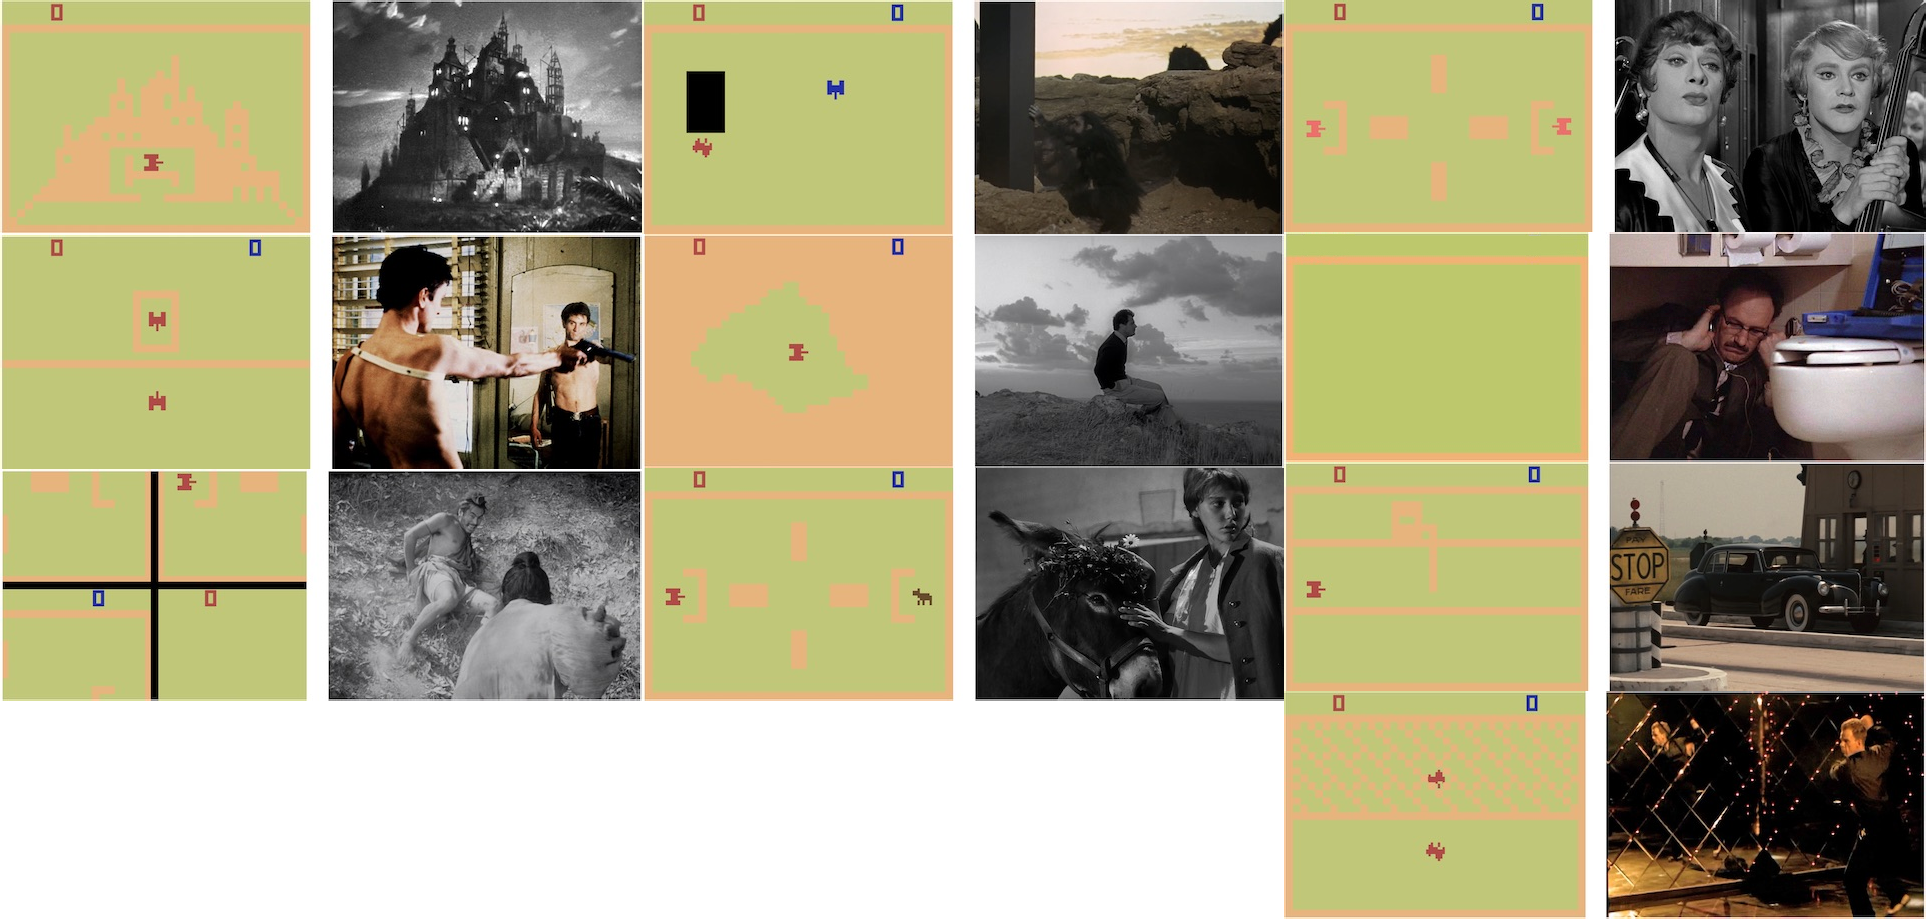
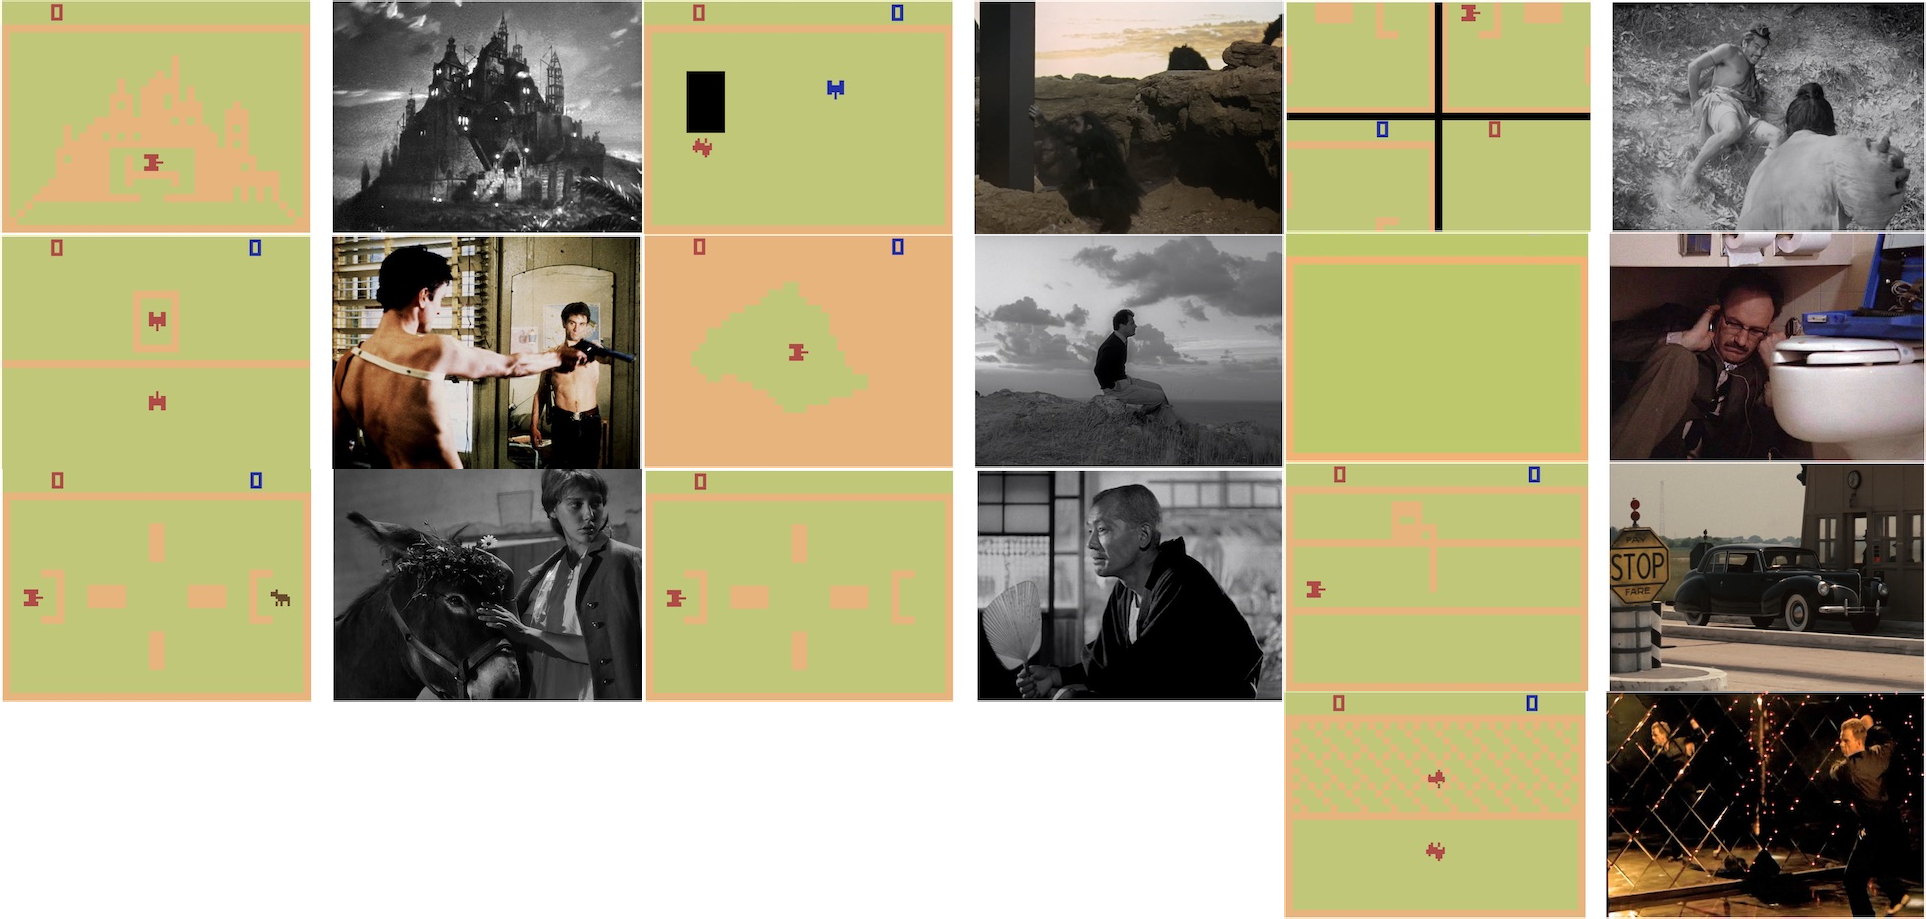
Tokyo Story: added figure to instructions (and changed how figure labels work)
? That is, I now generate the figure labels rather than hard coding them 
because it was stupid to hard code them.

Changed region(s): [[0.0, 0.4875, 0.6854, 0.7617], [0.6542, 0.0, 1.0, 0.2742]]

diff --git a/js/Rashomon.js b/js/Rashomon.js
@@ -67,7 +67,7 @@ class Rashomon extends GameScene {
     this.title = "RASHOMON";
     this.explanation = "Finally, Akira Kurosawa's complex tale of unreliable, self-serving narrators is available in videogame form. Fight in the famous duel between Tajōmaru (Toshiro Mifune) and the samurai (Masayuki Mori). Hold the Up Arrow to move forwards, the Left and Right Arrows to turn, and press the Space Bar to shoot. But beware, all is not as it seems: this game mode includes four separate views, each showing the game field from a different perspective. What is the truth, and what is a lie?";
     this.figureKey = 'fig-rashomon';
-    this.caption = 'Fig. B – The duel?'
+    this.caption = 'The duel?'
     this.showInstructions(() => {
       this.startGame();
     });

diff --git a/js/TaxiDriver.js b/js/TaxiDriver.js
@@ -40,7 +40,7 @@ class TaxiDriver extends GameScene {
     this.title = "TAXI DRIVER";
     this.explanation = "You are Travis Bickle (Robert De Niro), alone again in your depressing apartment as you ready yourself for the ultimate confrontation. Point your canon at yourself in the mirror and practice your tough-guy routine. Feel the aching need to shoot just to show you're alive. Hold the Up Arrow to move forwards, the Left and Right Arrows to turn, and press the Space Bar to deliver your line.";
     this.figureKey = 'fig-taxi-driver';
-    this.caption = 'Fig. I – Looking into the mirror'
+    this.caption = 'Looking into the mirror'
 
     this.showInstructions(() => {
       this.startGame();

diff --git a/js/GameScene.js b/js/GameScene.js
@@ -265,11 +265,12 @@ class GameScene extends Phaser.Scene {
   }
 
   displayFigure() {
+
     this.figure = this.add.sprite(this.game.canvas.width / 2, 0, 'atlas', `figures/${this.figureKey}.jpg`)
       .setOrigin(0.5, 0)
       .setScale(0.6);
     this.figure.y = this.explanationText.y + this.explanationText.height + 20;
-    this.captionText = this.add.text(this.pageInset + this.pageMargin, this.figure.y + this.figure.height * 0.6 + 10, this.caption, this.standardBoldStyle);
+    this.captionText = this.add.text(this.pageInset + this.pageMargin, this.figure.y + this.figure.height * 0.6 + 10, `Fig. ${this.figureLabel} – ${this.caption}`, this.standardBoldStyle);
   }
 
   shutdown() {

diff --git a/js/Lavventura.js b/js/Lavventura.js
@@ -17,7 +17,7 @@ class Lavventura extends GameScene {
     this.title = "L'AVVENTURA";
     this.explanation = "Anna (Lea Massari) has gone missing on the island of Lisca Bianca. Take on the role of Sandro (Gabriele Ferzetti) as you search for her fruitlessly on the rocky isle. Hold the Up Arrow to move forwards and the Left and Right Arrows to turn. Scour the area, but she's nowhere to be seen! Betrayal of Anna with Claudia not included.";
     this.figureKey = 'fig-lavventura';
-    this.caption = 'Fig. D – Searching for Anna on Lisca Bianca'
+    this.caption = 'Searching for Anna on Lisca Bianca'
     this.showInstructions(() => {
       this.startGame();
     });

diff --git a/js/TheGodfather.js b/js/TheGodfather.js
@@ -30,7 +30,7 @@ class TheGodfather extends GameScene {
     this.title = "THE GODFATHER";
     this.explanation = "Those Barzinis are up to no good. Play as Sonny Corleone (James Caan) driving through the toll plaza and minding your own business. Experience the shock and horror of a surprise attack from a Barzini tank that wants you dead. Hold the Up Arrow to move forwards, the Left and Right Arrows to turn. Drive through the plaza to your assassination.";
     this.figureKey = 'fig-the-godfather';
-    this.caption = 'Fig. G – Beware the toll plaza'
+    this.caption = 'Beware the toll plaza'
     this.showInstructions(() => {
       this.startGame();
     });

diff --git a/js/AuHasardBalthazar.js b/js/AuHasardBalthazar.js
@@ -28,7 +28,7 @@ class AuHasardBalthazar extends GameScene {
     this.title = "AU HASARD BALTHAZAR";
     this.explanation = "Play your part in the circuitous and everyday life of a donkey called Balthazar. Watch as he wanders around the field of play, guileless and innocent. Hold the Up Arrow to move forwards, the Left and Right Arrows to turn, and press the Space Bar to shoot. Balthazar will surely die, but how?";
     this.figureKey = 'fig-au-hasard-balthazar';
-    this.caption = 'Fig. E – Balthazar is just a donkey'
+    this.caption = 'Balthazar is just a donkey'
     this.showInstructions(() => {
       this.startGame();
     });

diff --git a/js/TwoThousandAndOneASpaceOdyssey.js b/js/TwoThousandAndOneASpaceOdyssey.js
@@ -50,7 +50,7 @@ class TwoThousandAndOneASpaceOdyssey extends GameScene {
     this.title = "2001: A SPACE ODYSSEY";
     this.explanation = "Start out as a tank without firepower, low on the foodchain. When it appears, use the power of the monolith to upgrade your canon and eliminate the competition. Hold the Up Arrow to move forwards, the Left and Right Arrows to turn, and press the Space Bar to shoot once enabled. Evolve.";
     this.figureKey = 'fig-2001-a-space-odyssey';
-    this.caption = 'Fig. F – The monolith arrives'
+    this.caption = 'The monolith arrives'
     this.showInstructions(() => {
       this.startGame();
     });

diff --git a/js/BeauTravail.js b/js/BeauTravail.js
@@ -49,7 +49,7 @@ class BeauTravail extends GameScene {
     this.title = "BEAU TRAVAIL";
     this.explanation = "Hovering between life and death, there's time for one last curtain call. Play Chief Adjutant Galoup (Denis Lavant) and dance ecstatically to The Rhythm of the Night by Corona. Hold the Up Arrow to move forwards, the Down Arrow to reverse, and the Left and Right Arrows to turn. Express yourself through movement.";
     this.figureKey = 'fig-beau-travail';
-    this.caption = 'Fig. J – The last dance'
+    this.caption = 'The last dance'
 
     this.showInstructions(() => {
       this.startGame();

diff --git a/js/Menu.js b/js/Menu.js
@@ -145,12 +145,14 @@ class Menu extends Phaser.Scene {
     this.games.sort((a, b) => a.year - b.year);
     let y = 180;
     this.menuItems = [];
+    this.labels = "ABCDEFGHIJKLMNOPQRSTUVWXYZ";
     for (let i = 0; i < this.games.length; i++) {
       let title = `${i+1}. ${this.games[i].title} (${this.games[i].year})`
       let item = this.add.text(this.pageInset + this.pageMargin, y, title, gameMenuItemStyle);
       y += 20;
       item.game = this.games[i];
       this.menuItems.push(item);
+      this.scene.get(item.game.key).figureLabel = this.labels[i];
     }
 
     this.currentItem = 0;

diff --git a/js/CitizenKane.js b/js/CitizenKane.js
@@ -22,7 +22,7 @@ class CitizenKane extends GameScene {
     this.title = "CITIZEN KANE";
     this.explanation = "CITIZEN KANE is a game of memories. Play Charles Foster Kane as he lies dying in Xanadu. Use the Left and Right Arrow Keys to toss and turn in your bed, filled with regret. Press the Space Bar to give voice to your one most precious memory. But better remember it quickly! You're going to die!";
     this.figureKey = 'fig-citizen-kane';
-    this.caption = 'Fig. A – Xanadu'
+    this.caption = 'Xanadu'
     this.showInstructions(() => {
       this.startGame();
     });

diff --git a/js/TheConversation.js b/js/TheConversation.js
@@ -50,7 +50,7 @@ class TheConversation extends GameScene {
     this.title = "THE CONVERSATION";
     this.explanation = "Become Harry Caul (Gene Hackman) as you listen through the hotel wall to an argument between husband tank and wife tank. Use your Ears to try to figure out what is happening and, when it turns deadly, who killed who.";
     this.figureKey = 'fig-the-conversation';
-    this.caption = 'Fig. H – Listening through the wall'
+    this.caption = 'Listening through the wall'
 
     this.showInstructions(() => {
       this.startGame();

diff --git a/js/TokyoStory.js b/js/TokyoStory.js
@@ -21,7 +21,8 @@ class TokyoStory extends GameScene {
     this.title = "TOKYO STORY";
     this.explanation = "???";
     this.figureKey = 'fig-tokyo-story';
-    this.caption = 'Fig. ??? – ???'
+    this.caption = '???'
+
     this.showInstructions(() => {
       this.startGame();
     });
